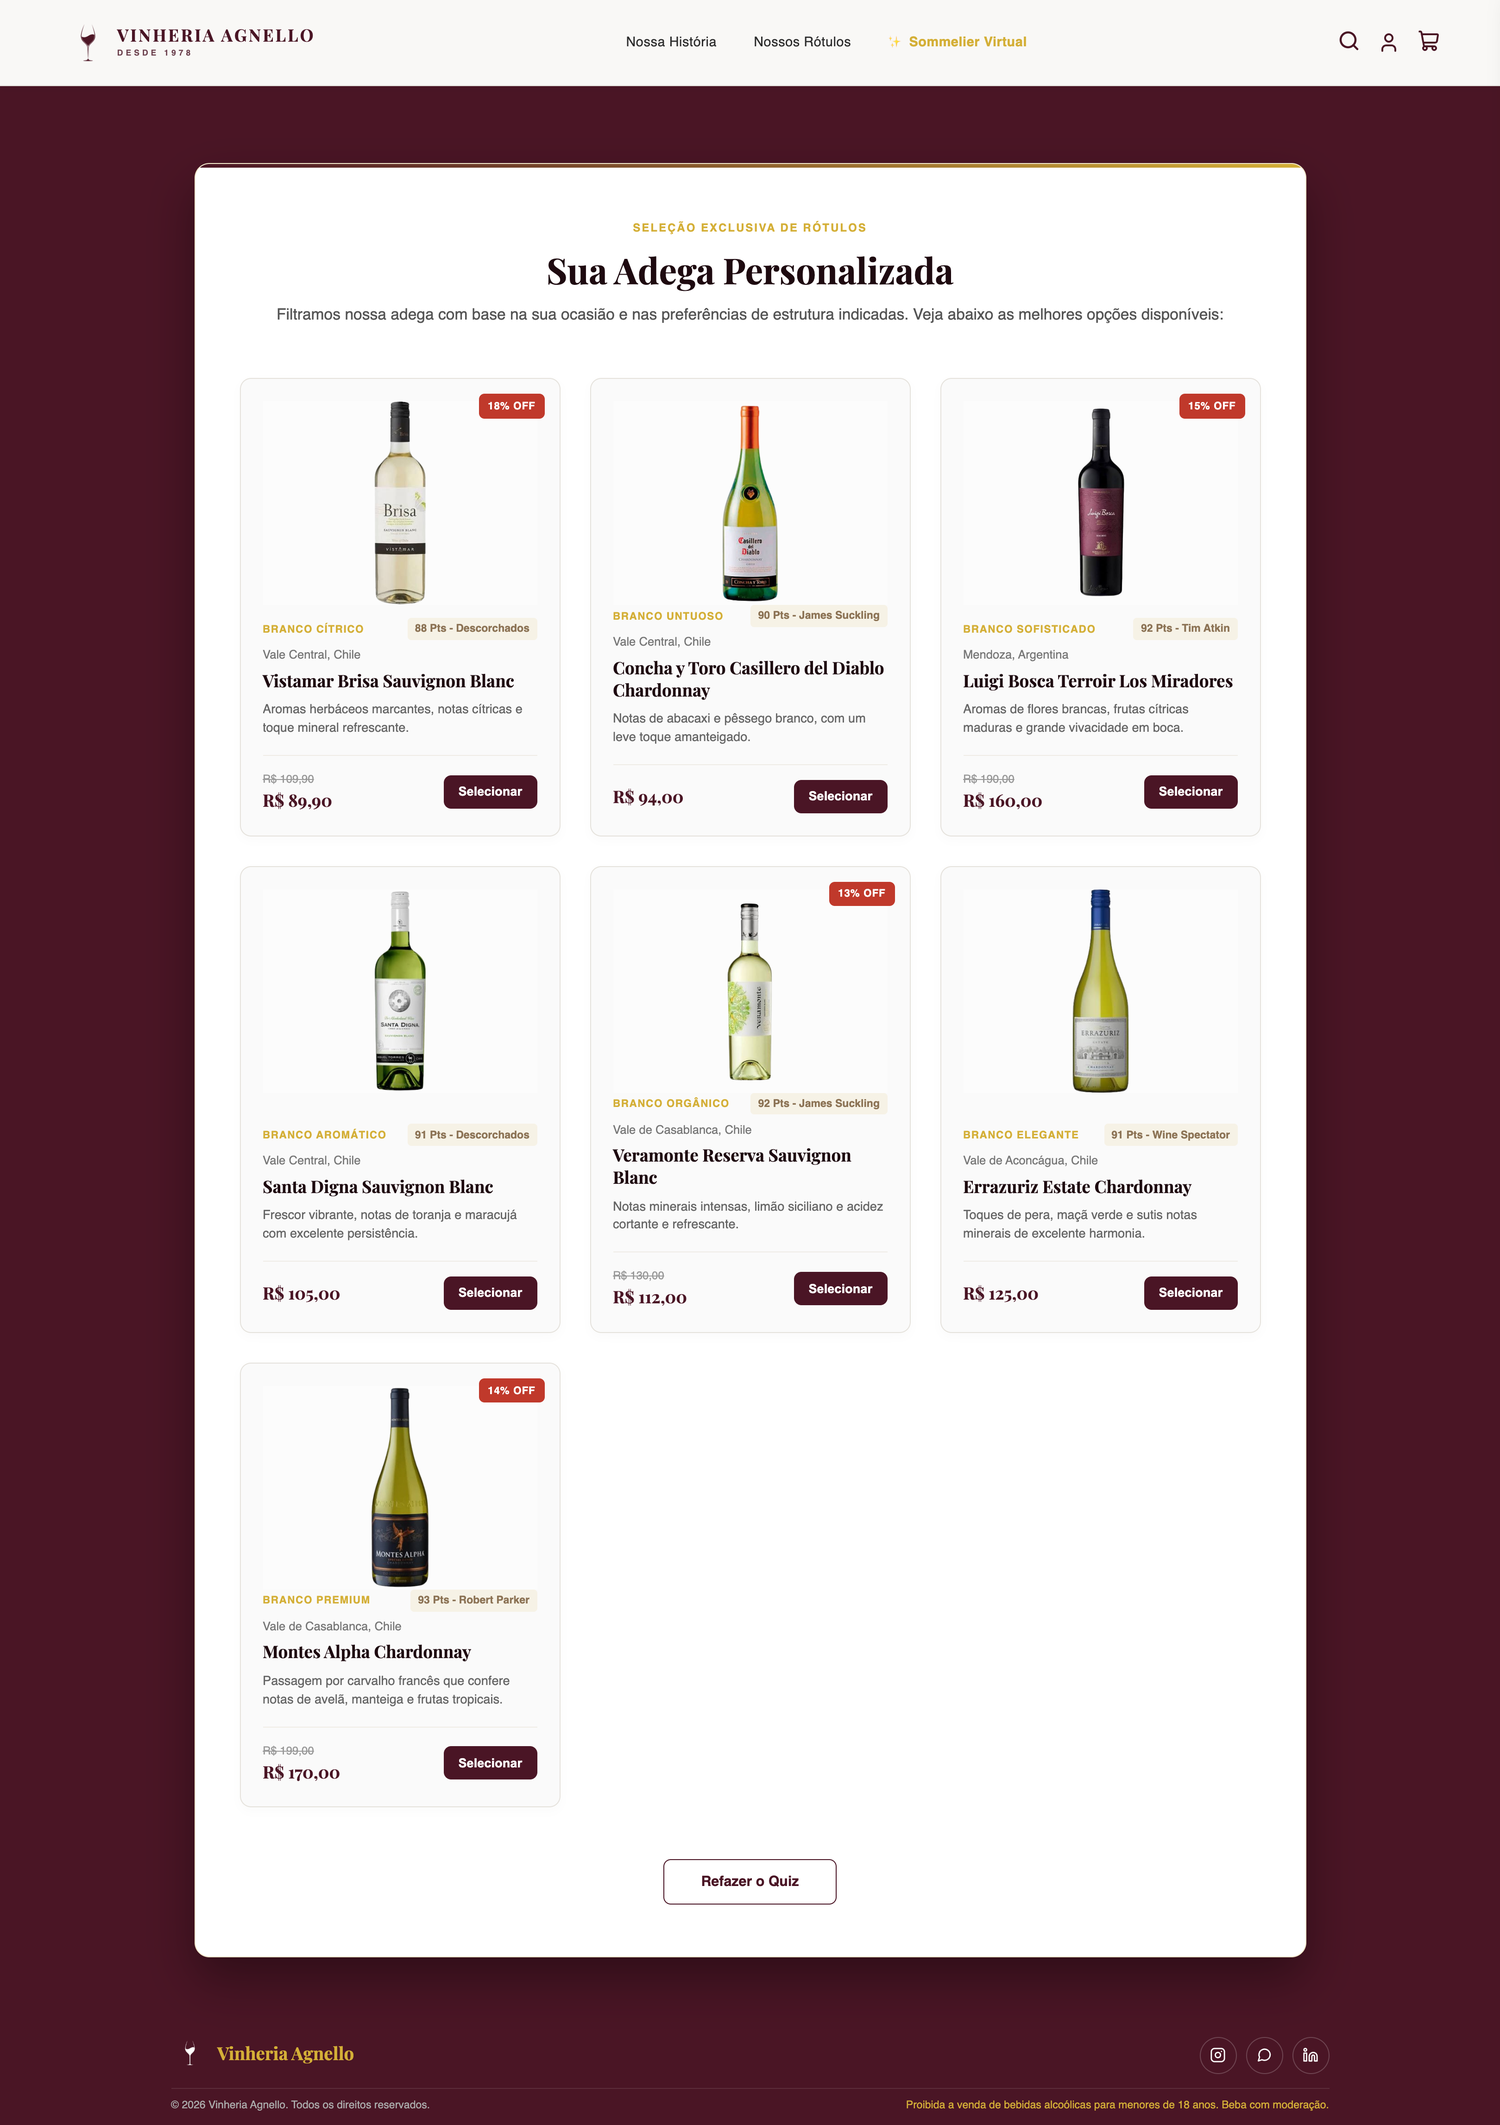
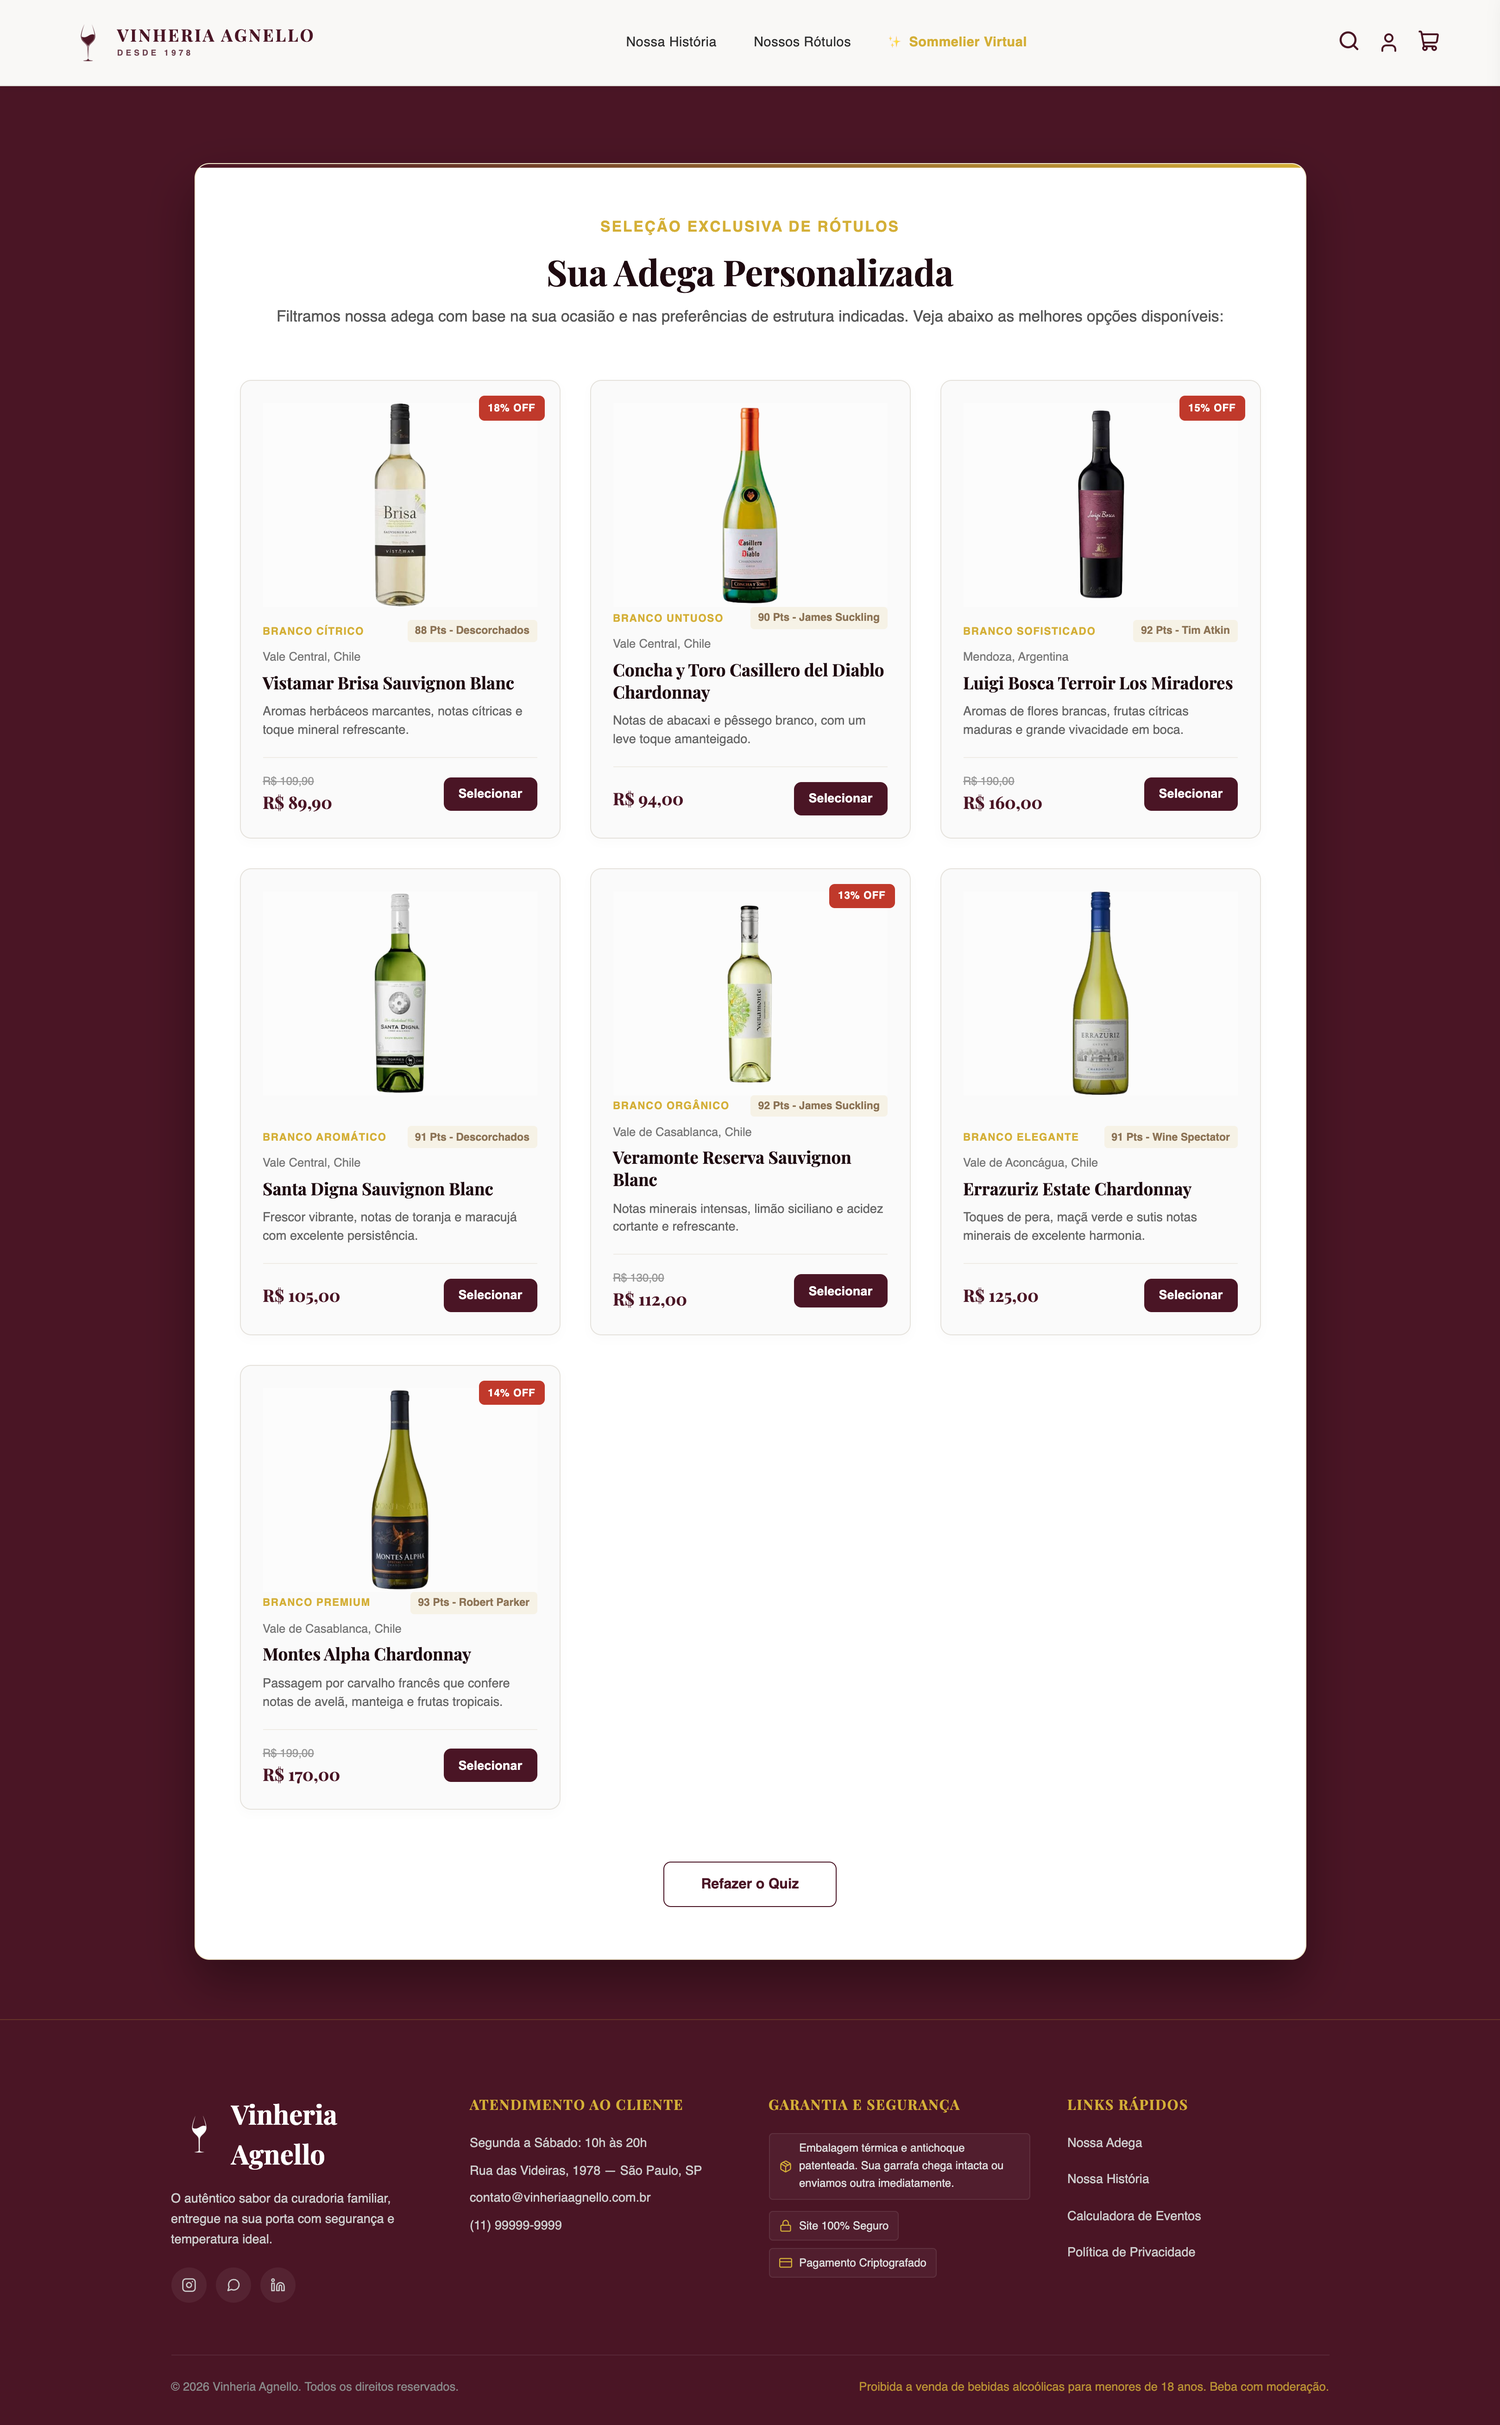
Changing escolha sommelier and image

diff --git a/css/sugestoes-sommelier.css b/css/sugestoes-sommelier.css
@@ -5,7 +5,12 @@
 @import url('./sections/_variables.css');
 @import url('./sections/_header.css');
 @import url('./sections/_buttons.css');
+@import url('./sections/_hero.css');
+@import url('./sections/_family.css');
+@import url('./sections/_calculator.css');
+@import url('./sections/_vitrini.css');
 @import url('./sections/_footer-intern.css');
+@import url('./sections/_footer-completed.css');
 @import url('./sections/_responsive.css');
 @import url('./sections/_carrinho.css');
 

diff --git a/sugestoes-sommelier.html b/sugestoes-sommelier.html
@@ -53,7 +53,7 @@
     <div id="agnello-cart-body" class="agnello-cart-body"></div>
   </div>
 
-  <div id="site-footer"></div>
+  <div id="site-footer-completo"></div>
   <script src="./js/pages/sugestoes-sommelier.js"></script>
   <script src="./js/data/catalogo-vinhos.js"></script>
   <script src="./js/components/carrinho.js"></script>
